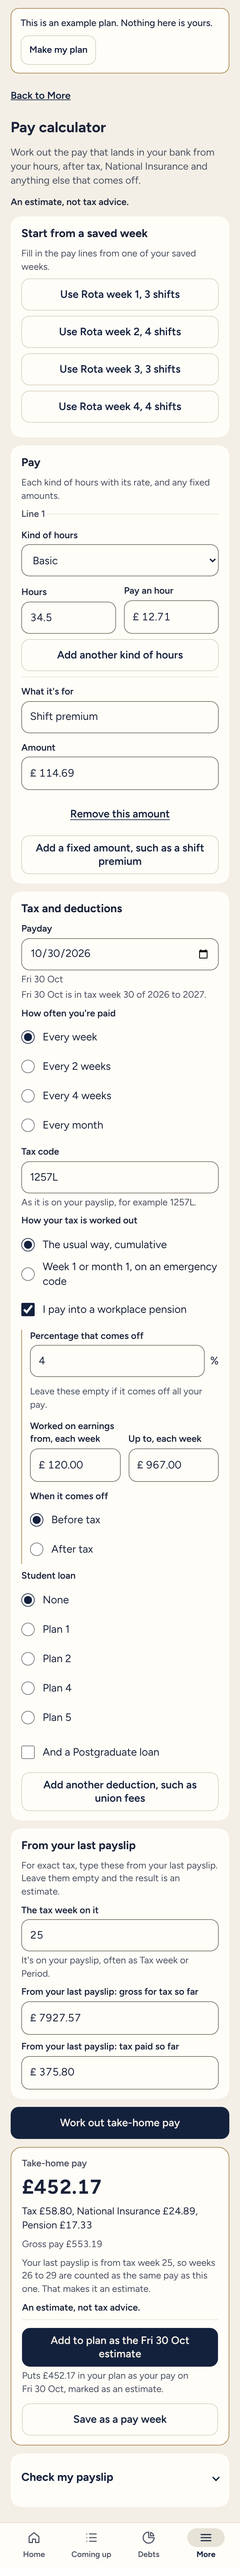
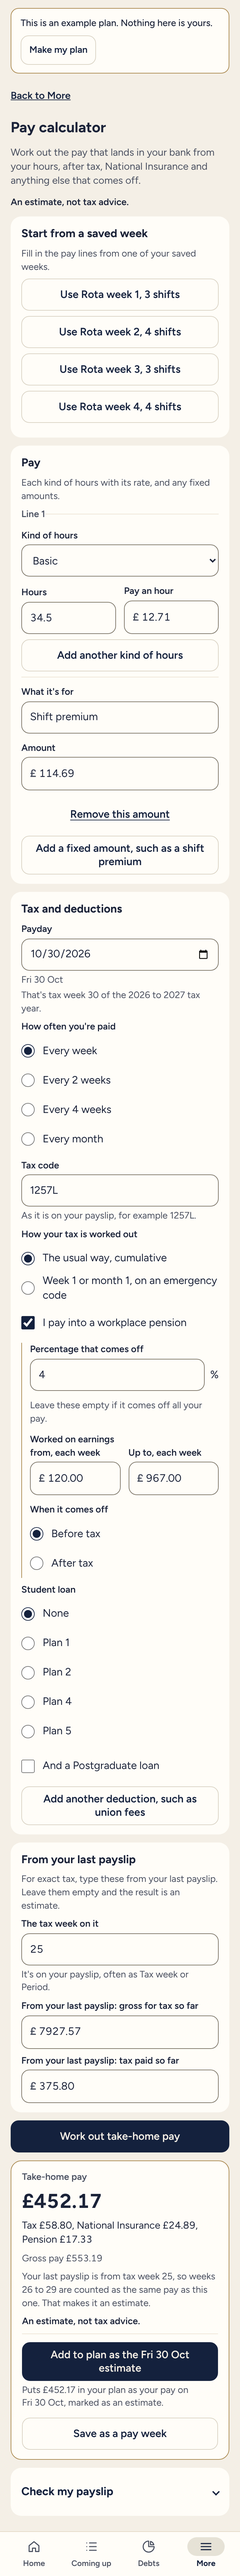
Take the step 2g screenshots, and measure a sheet once it has opened
What if with the owner's test 1 change, the calculator's result for test 3
and Check my payslip for test 5, at 360px in light. The tap target test now
waits for a sheet to finish sliding open before measuring it.

Claude-Session: https://claude.ai/code/session_01R7WB9sBTVwRkNGAan2JW2J

diff --git a/apps/web/e2e/app.spec.ts b/apps/web/e2e/app.spec.ts
@@ -49,6 +49,10 @@ test('every tap target is at least 44 by 44 pixels, on every screen and in a she
   expect(await smallTargets(page)).toEqual([]);
   await page.getByRole('button', { name: 'I spent' }).click();
   await expect(page.getByRole('dialog')).toBeVisible();
+  // Measured once the sheet has finished sliding open, not part of the way.
+  await page.waitForFunction(() =>
+    document.getAnimations().every((one) => one.playState !== 'running'),
+  );
   expect(await smallTargets(page)).toEqual([]);
   for (const path of ['/', '/app/coming-up/', '/app/debts/', '/app/more/', '/app/parts/']) {
     await page.goto(path);
